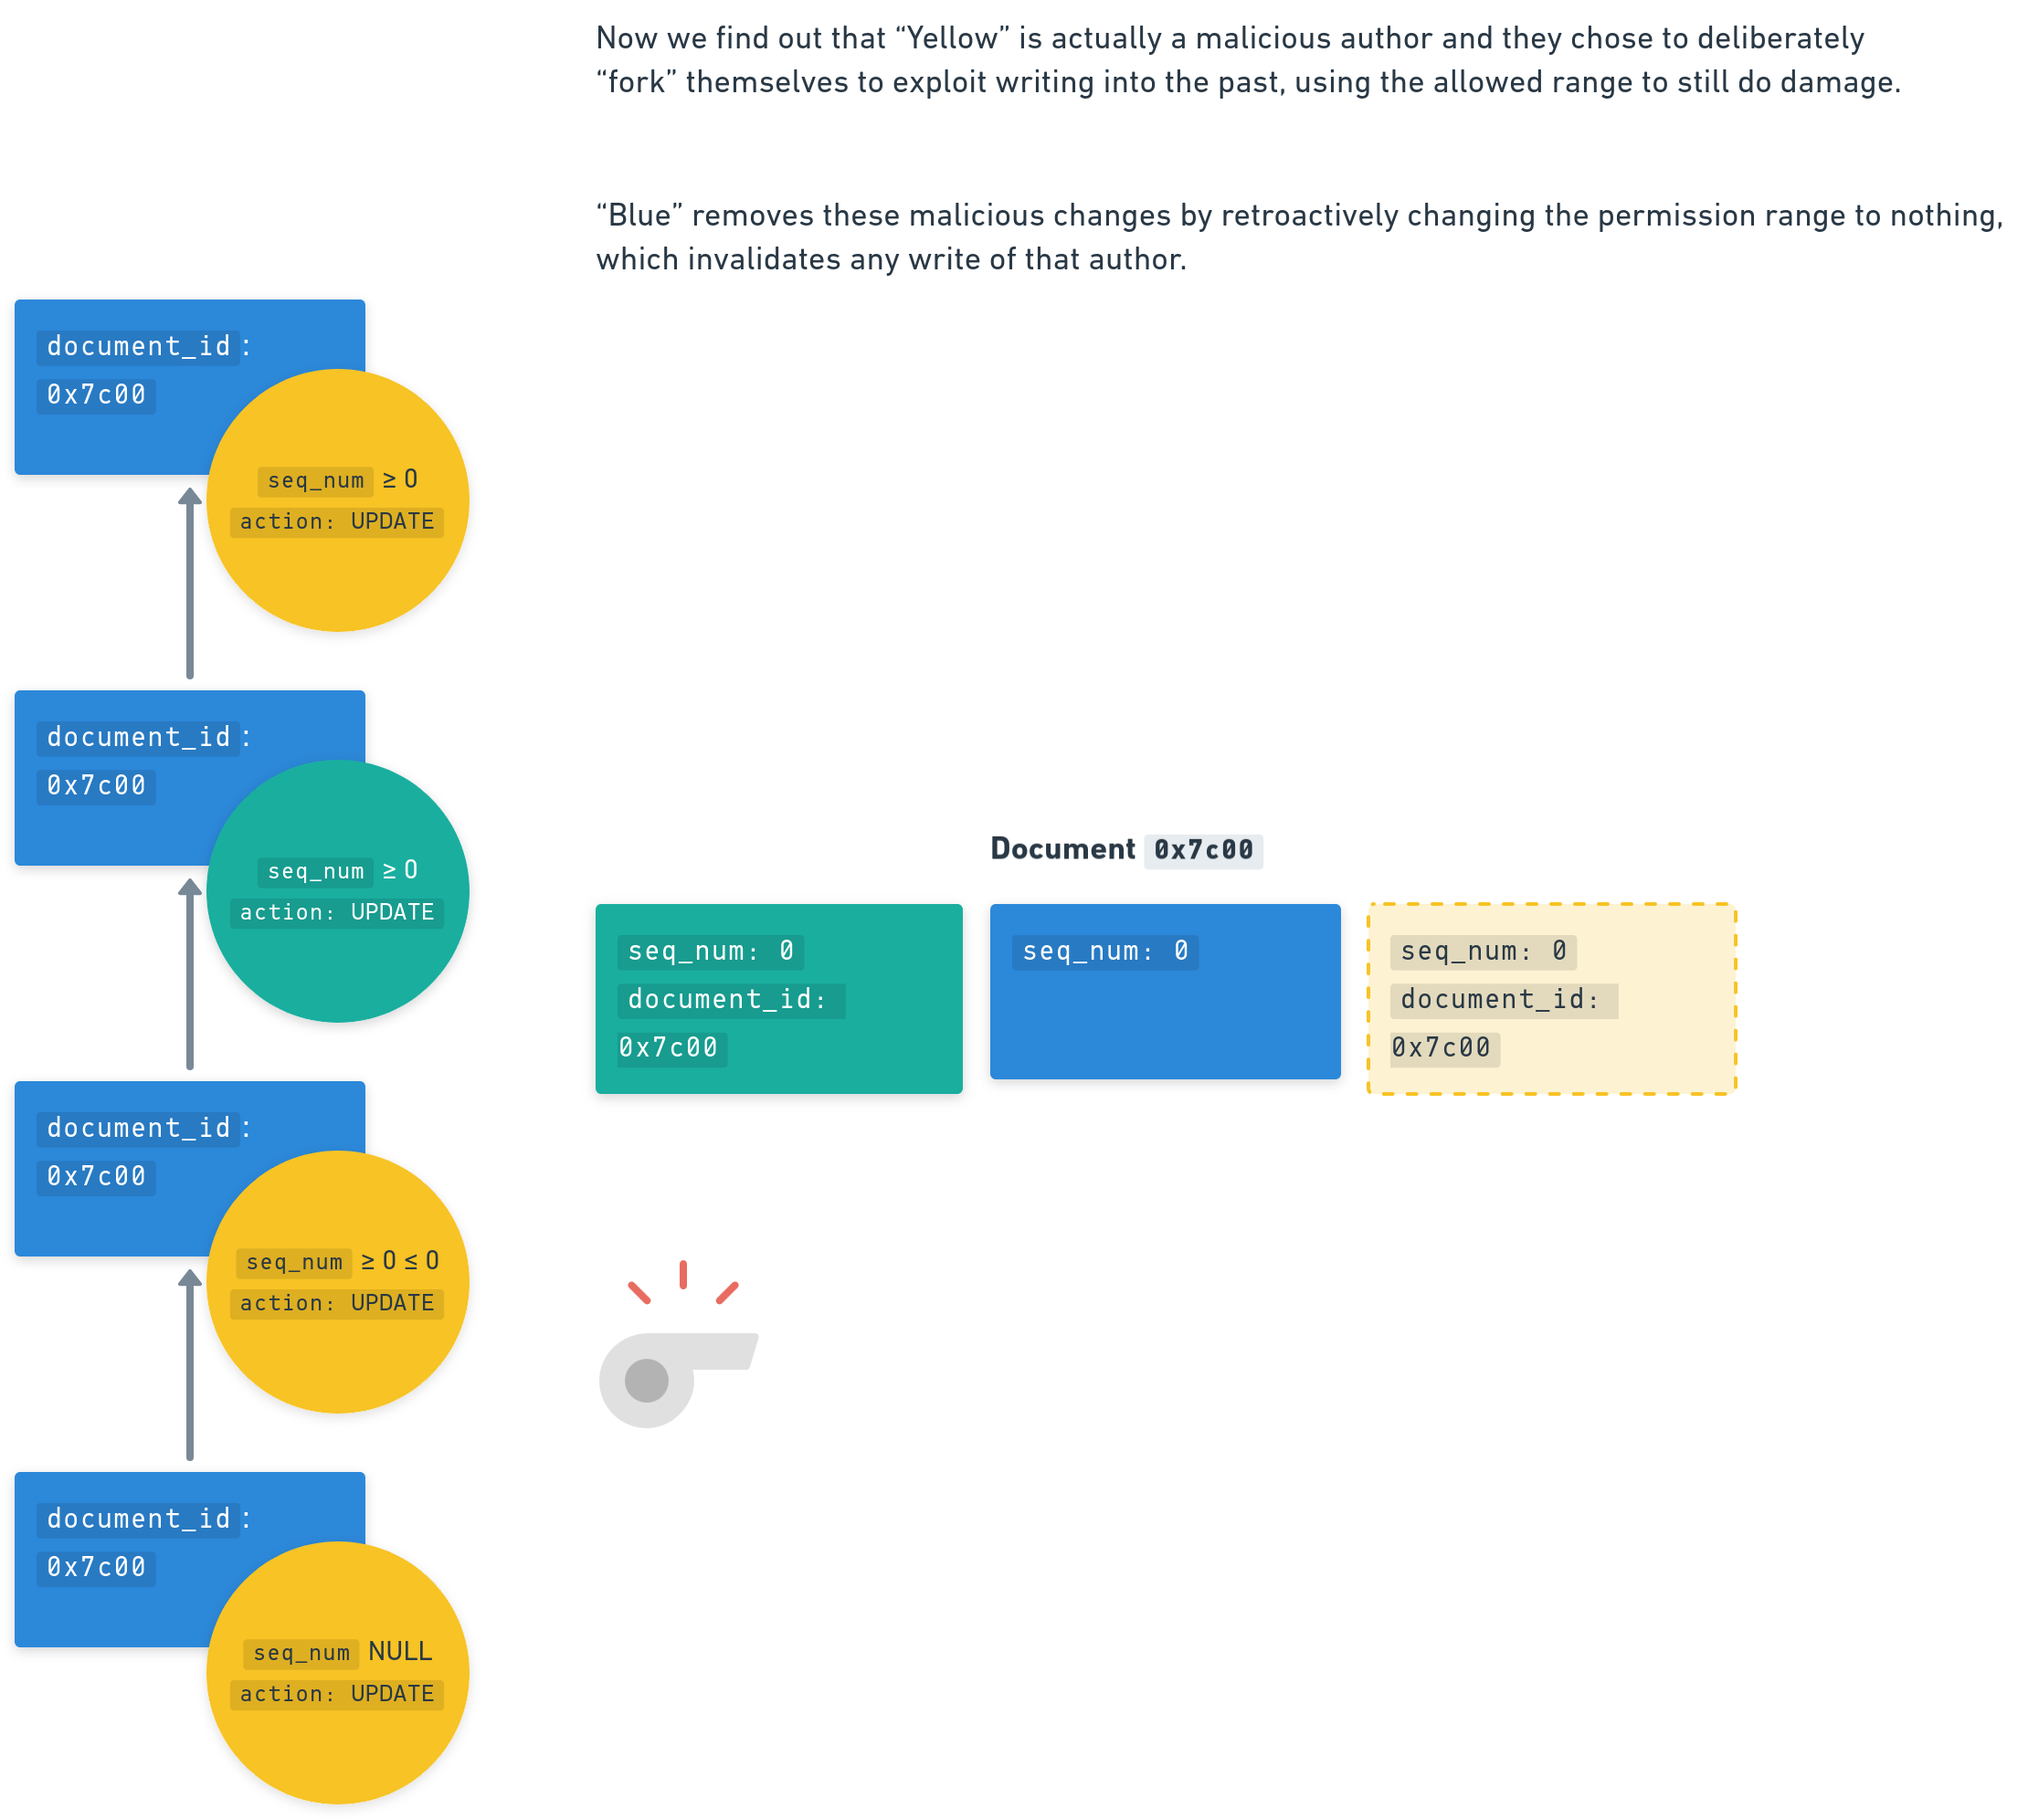
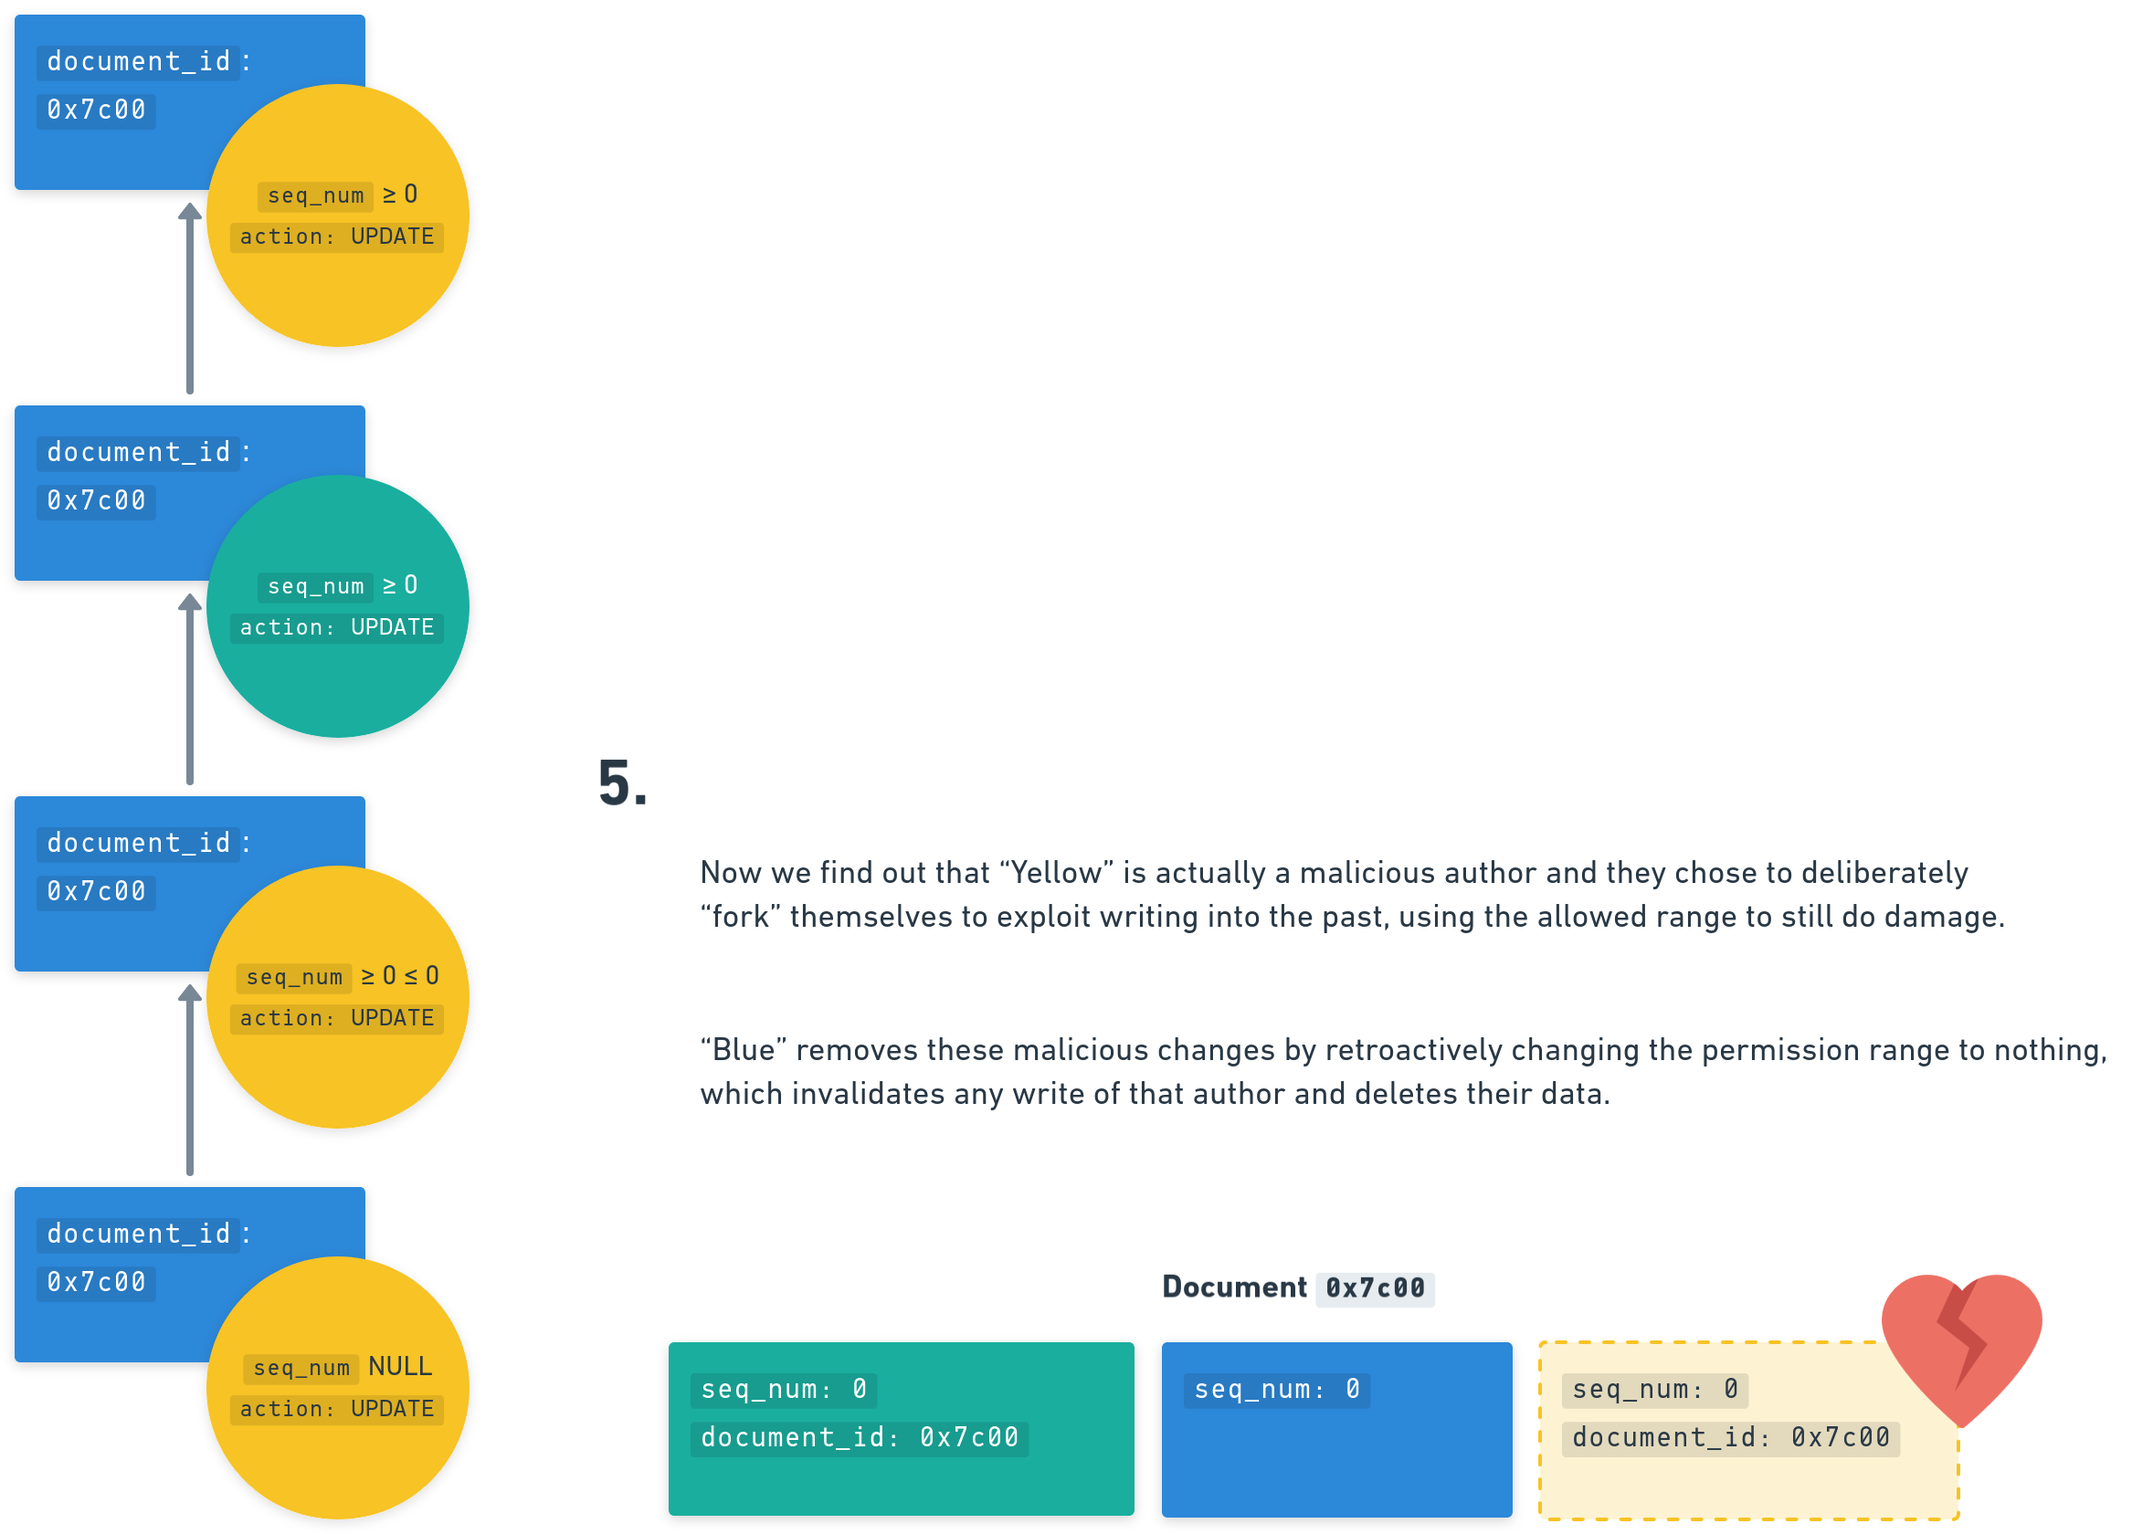
Better images and introduction in specification

diff --git a/website/docs/specifications/namakemono/index.md b/website/docs/specifications/namakemono/index.md
@@ -4,17 +4,45 @@ title: namakemono
 
 import ImageFrame from '@site/src/components/ImageFrame';
 
-> 🦥 Slow and forgetful
+> 🦥 namakemono = Sloth (Japanese) = Slow and forgetful = very delay-tolerant, offline-first and privacy-respecting 🩷
 
-**namakemono** is a linked-list data type designed for distributed applications which are offline-first and highly delay-tolerant. It is used as the main building block of the p2panda ecosystem.
+**namakemono** is a protocol designed for peer-to-peer and federated applications. It gives them sloth-superpowers: offline-first collaboration, fine-grained permissions, data validation, schema migration, decentralised MLS encryption, low memory footprint, efficient replication and privacy-respecting deletion.
 
 <ImageFrame
-  title="Data in this list is secured by signatures and cryptographic backlinks"
+  title="Sloth-Superpowers!"
+  url={require('./assets/extensions.png')}
+/>
+
+**namakemono** was designed to solve hard privacy and efficiency problems when building collaborative applications in peer-to-peer systems. This includes:
+
+* **Offline-first collaboration:** Create and edit data with others, even when you're offline. Distributed systems usually compromise on "how long" you can be offline, namakemono gives you the tools to stay offline as long as you want
+* **Fine-grained capabilities:** Full control over your data by defining who can sync, create, update or delete what. Usually capability system require nodes to be online, namakemono designed a system which is offline-first
+* **End-to-end encryption:** Secure and scaleable group encryption with a decentralised variant of the Messaging-Layer-Security (MLS) protocol
+* **Don't grow data forever, except if you want to:** Keep the history of all changes if you need them, or delete old data instantly when your application does not require it, even of other authors
+* **Privacy-respecting deletion:** Delete whole collections of data with one tombstone or let data disappear by itself, giving it an expiry date
+* **Schemas:** Define and distribute versioned and migratable schemas of your choice to validate incoming data
+* **Collections:** Structure hierarchies of data collections, combining them with permissions to model user-roles, moderation, admin access and more typical application concerns
+* **Re-use your key-pair:** .. on multiple devices without being afraid of accidental forks
+* **Efficient and partial sync:** namakemono is still a linked-list and can leverage from fast, simple and efficient log-replication
+* **Flexible:** Use any CRDT, data validation format, encoding, digital signature algorithm or hashing algorithm you want!
+
+:::note Status: Draft
+
+namakemono is based on the original p2panda specification and can be seen as the next, simplified iteration. It helps us to leverage from the best parts we've came up with so far over the last years, separate application concerns more from the protocol ("bring your own CRDT") and remove the Bamboo append-only log data type (as we realized we haven't used it in the form it was designed for).
+
+If you have any comments or feedback on this specification. Please [contact us](/contact)!
+
+:::
+
+## Short overview
+
+<ImageFrame
+  title="namakemono is a little bit like a typical append-only log, secured by signatures and cryptographic backlinks, but with a few tricks!"
   url={require('./assets/linked-list.png')}
 />
 
 <ImageFrame
-  title="Old data can be automatically deleted, history can be kept if desired"
+  title="Old data in the log + metadata can be removed directly as soon as new data arrives! How much history you want to keep is configurable."
   url={require('./assets/log-depth.png')}
 />
 
@@ -23,18 +51,10 @@ import ImageFrame from '@site/src/components/ImageFrame';
   url={require('./assets/key-reuse.png')}
 />
 
-**namakemono** comes with helpful extensions which gives your application sloth-superpowers, like:
-
 <ImageFrame
-  title="Sloth-Superpowers you need to build a p2p application"
-  url={require('./assets/extensions.png')}
+  title="Multiple authors can collaborate on the same document - in this example with maximum depth(2)"
+  url={require('./assets/document.png')}
 />
-
-:::note Status: Draft
-
-namakemono is based on the original p2panda specification and can be seen as the next, simplified iteration which helps us to separate application concerns more from the protocol ("bring your own CRDT") and remove the Bamboo append-only log data type as we haven't used it in the form it was designed for.
-
-:::
 
 ## Encoding & Cryptographic Primitives
 
@@ -51,8 +71,9 @@ namakemono is based on the original p2panda specification and can be seen as the
 
 ## Operations
 
-* An Operation consists of a **Header** and a **Body**
-* The Header contains _always_ the following fields:
+* Every item in the linked-list is called an **Operation**
+* An operation consists of a **Header** and a **Body**
+* The header contains _always_ the following fields:
     ```rust
     struct Header {
         /// Version of the operation format, currently `1`
@@ -87,19 +108,22 @@ namakemono is based on the original p2panda specification and can be seen as the
     ```
 * Since the header is stored separately from the body, the body can be deleted at any point without any consequences for the data type
 
-## Creating & updating documents
+## Creating documents
 
-* As soon as an operation is published in this previously defined form it is considered a CREATE operation. CREATE operations define a new document
+* As soon as an operation is published it is considered a CREATE operation. CREATE operations define a new document
     <ImageFrame
       title="Creating a new Salmon Cake recipe document with a CREATE operation"
       url={require('./assets/operation-example.png')}
     />
-* The hash of this CREATE operation is used as the identifier of the whole document
+* The hash of this CREATE operation is used as the identifier of the whole document for its entire lifetime
     <ImageFrame
       title="Generating a hash from the operation header"
       url={require('./assets/hashing.png')}
     />
-* This CREATE operation header should be kept for the lifetime of it's document, its signature is the proof of authorship for the owner (the owner can delegate capabilities later)
+* This header of the CREATE operation should be kept for the lifetime of it's document, its signature is the proof of authorship for the owner (the owner can delegate capabilities later)
+
+## Updating documents
+
 * If we want to refer to this document with another UPDATE operation, changing the state of a document, we add the following fields to the header:
     ```rust
     struct Header {
@@ -109,23 +133,20 @@ namakemono is based on the original p2panda specification and can be seen as the
         /// Hash of the CREATE operation aka "document ID" we refer to with this update
         document_id: Hash,
 
-        /// Optional list of hashes of the operations we refer to as the
-        /// "previous" ones. These are operations from other authors
-        previous: Option<Hash[]>,
-
         // ... plus same fields as above
     }
     ```
+* The `seq_num` needs to be incremented by `1` and the operation is appended to the author's log for this document
 
 ## Collaboration
 
 * If multiple users want to write to the same document, they refer to the same `document_id` when publishing UPDATE operations
-* Here we have three different authors (blue, orange, yellow) writing to the same document with ID `0x2bac` which was created by blue:
+* Here we have three different authors (Blue, Orange, Yellow) writing to the same document with ID `0x2bac` which was created by Blue:
     <ImageFrame
-      title="Writing to the same document which was created by the blue author"
+      title="Writing to the same document which was created by the Blue author"
       url={require('./assets/collaboration.png')}
     />
-* By default it is not permitted to write to any document if you're not the original author. Through "Capabilities" we can add more authors, giving them the permission to write to your documents
+* By default it is not permitted to write to any document if you're not the original author. Through ["Capabilities"](#capabilities) we can add more authors, giving them the permission to write to your documents
 
 ## Views
 
@@ -138,10 +159,21 @@ namakemono is based on the original p2panda specification and can be seen as the
 
 ## Ordering
 
-* Through the `previous` links in the operation header we can determine a causal order of _which_ operations were created _before_ others
-    * We apply a topological sorting algorithm on top of the DAG formed by the `previous` links to determine this ordering
-    * This algorithm sorts all operations of all authors from "earliest" to "latest", the last operation in this sorted list is the "last" write
-* Using `previous` links is optional as it depends on the application if this level of cryptographic security over ordering is required. When using these links timestaps are more secure as it is not possible to publish a lower timestamp than the ones of the previous operations
+* We need a way to determine which operations took place before others when collaborating on the same document
+* Through adding `previous` links in the operation header we can determine a causal order of _which_ operations were created _before_ others (similar to vector clocks):
+    ```rust
+    struct Header {
+        /// Optional list of hashes of the operations we refer to as the
+        /// "previous" ones. These are operations from other authors
+        previous: Option<Hash[]>,
+
+        // ... plus same fields as above
+    }
+    ```
+* We apply a topological sorting algorithm on top of the DAG formed by the `previous` links to determine this ordering
+* This algorithm sorts all operations of all authors from "earliest" to "latest", the last operation in this sorted list is the "last" write
+* Using `previous` links is optional as it depends on the application if this level of cryptographic security over ordering is required.
+* When using `previous` links the `timestamp` fields become more secure as it is not allowed to publish an earlier timestamp than the previous one
     <ImageFrame
       title="Ordering operations of a document by previous links"
       url={require('./assets/previous-ordering.png')}
@@ -325,22 +357,22 @@ Capabilities are in the workings for 2024. Watch this space!
         * With this, honest peers limit the damage a malicious node can do, as they lock in any changes to the cap doc as they update the target doc. The worst a malicious node can do is withold state from both the cap and target document. Without the pointer they could withold operations from just the cap group "allowing in" operations to the target doc which already had their permissions revoked.
 
 <ImageFrame
-  title="Granting permission to the first author"
+  title="Blue granting 'write' permission to the Yellow author"
   url={require('./assets/cap-1.png')}
 />
 
 <ImageFrame
-  title="Granting permission to the second author"
+  title="Blue granting 'write' permission to the Green author"
   url={require('./assets/cap-2.png')}
 />
 
 <ImageFrame
-  title="Removing permission of first author"
+  title="Blue removing 'write' permission of the Yellow author for the future"
   url={require('./assets/cap-3.png')}
 />
 
 <ImageFrame
-  title="Retroactively removing operations of malicious author"
+  title="Blue retroactively removing operations of malicious Yellow author"
   url={require('./assets/cap-4.png')}
 />
 
@@ -374,7 +406,7 @@ Encryption is mostly handled by MLS and our "Secret Group" specification which i
 
 * Nodes essentially ask for what documents (for example scoped by document ids, collection id, schema id, etc.) they are interested in and always prefer "latest" documents to be sent first (usually sorted by `timestamp`).
 * Replication in itself is taking place by exchanging "log heights" since all documents can be expressed as logs, even when including forks (the forked branch is considered its own "log")
-* Log heights are tuples of document id, public key, latest known seq num
+* Log heights are tuples of `(document id, public key, latest known seq num)`
 * The latest known operation id needs to be added as well if it is known that a fork exists
 * Nodes can not retrieve any data from any author or document if no `sync` capability was given
 
